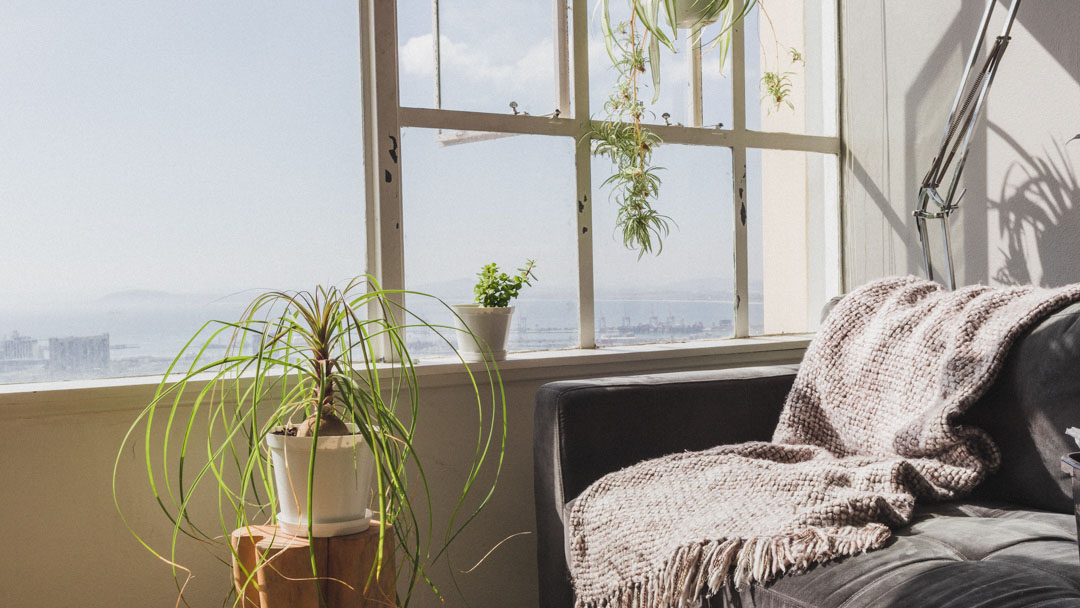
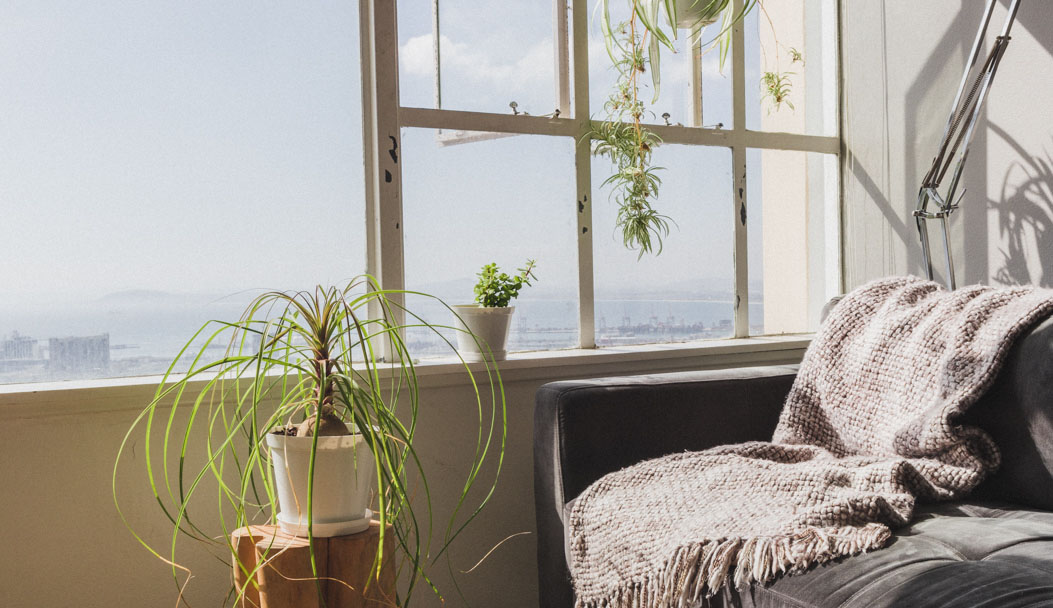
updated styles and hero image

diff --git a/css/global.css b/css/global.css
@@ -120,6 +120,7 @@ header h1 {
   left: 0;
   background-image: url(/assets/images/homeland-product-hero.jpg);
   background-size: cover;
+  background-position: center;
   filter: contrast(100%) brightness(70%);
 }
 

diff --git a/css/media.css b/css/media.css
@@ -3,6 +3,14 @@
     justify-content: center;
     gap: 1rem;
   }
+
+  .hero {
+    padding: 0px 2rem;
+  }
+
+  .hero-title {
+    font-size: 3.2rem;
+  }
 }
 
 @media screen and (max-width: 750px) {
